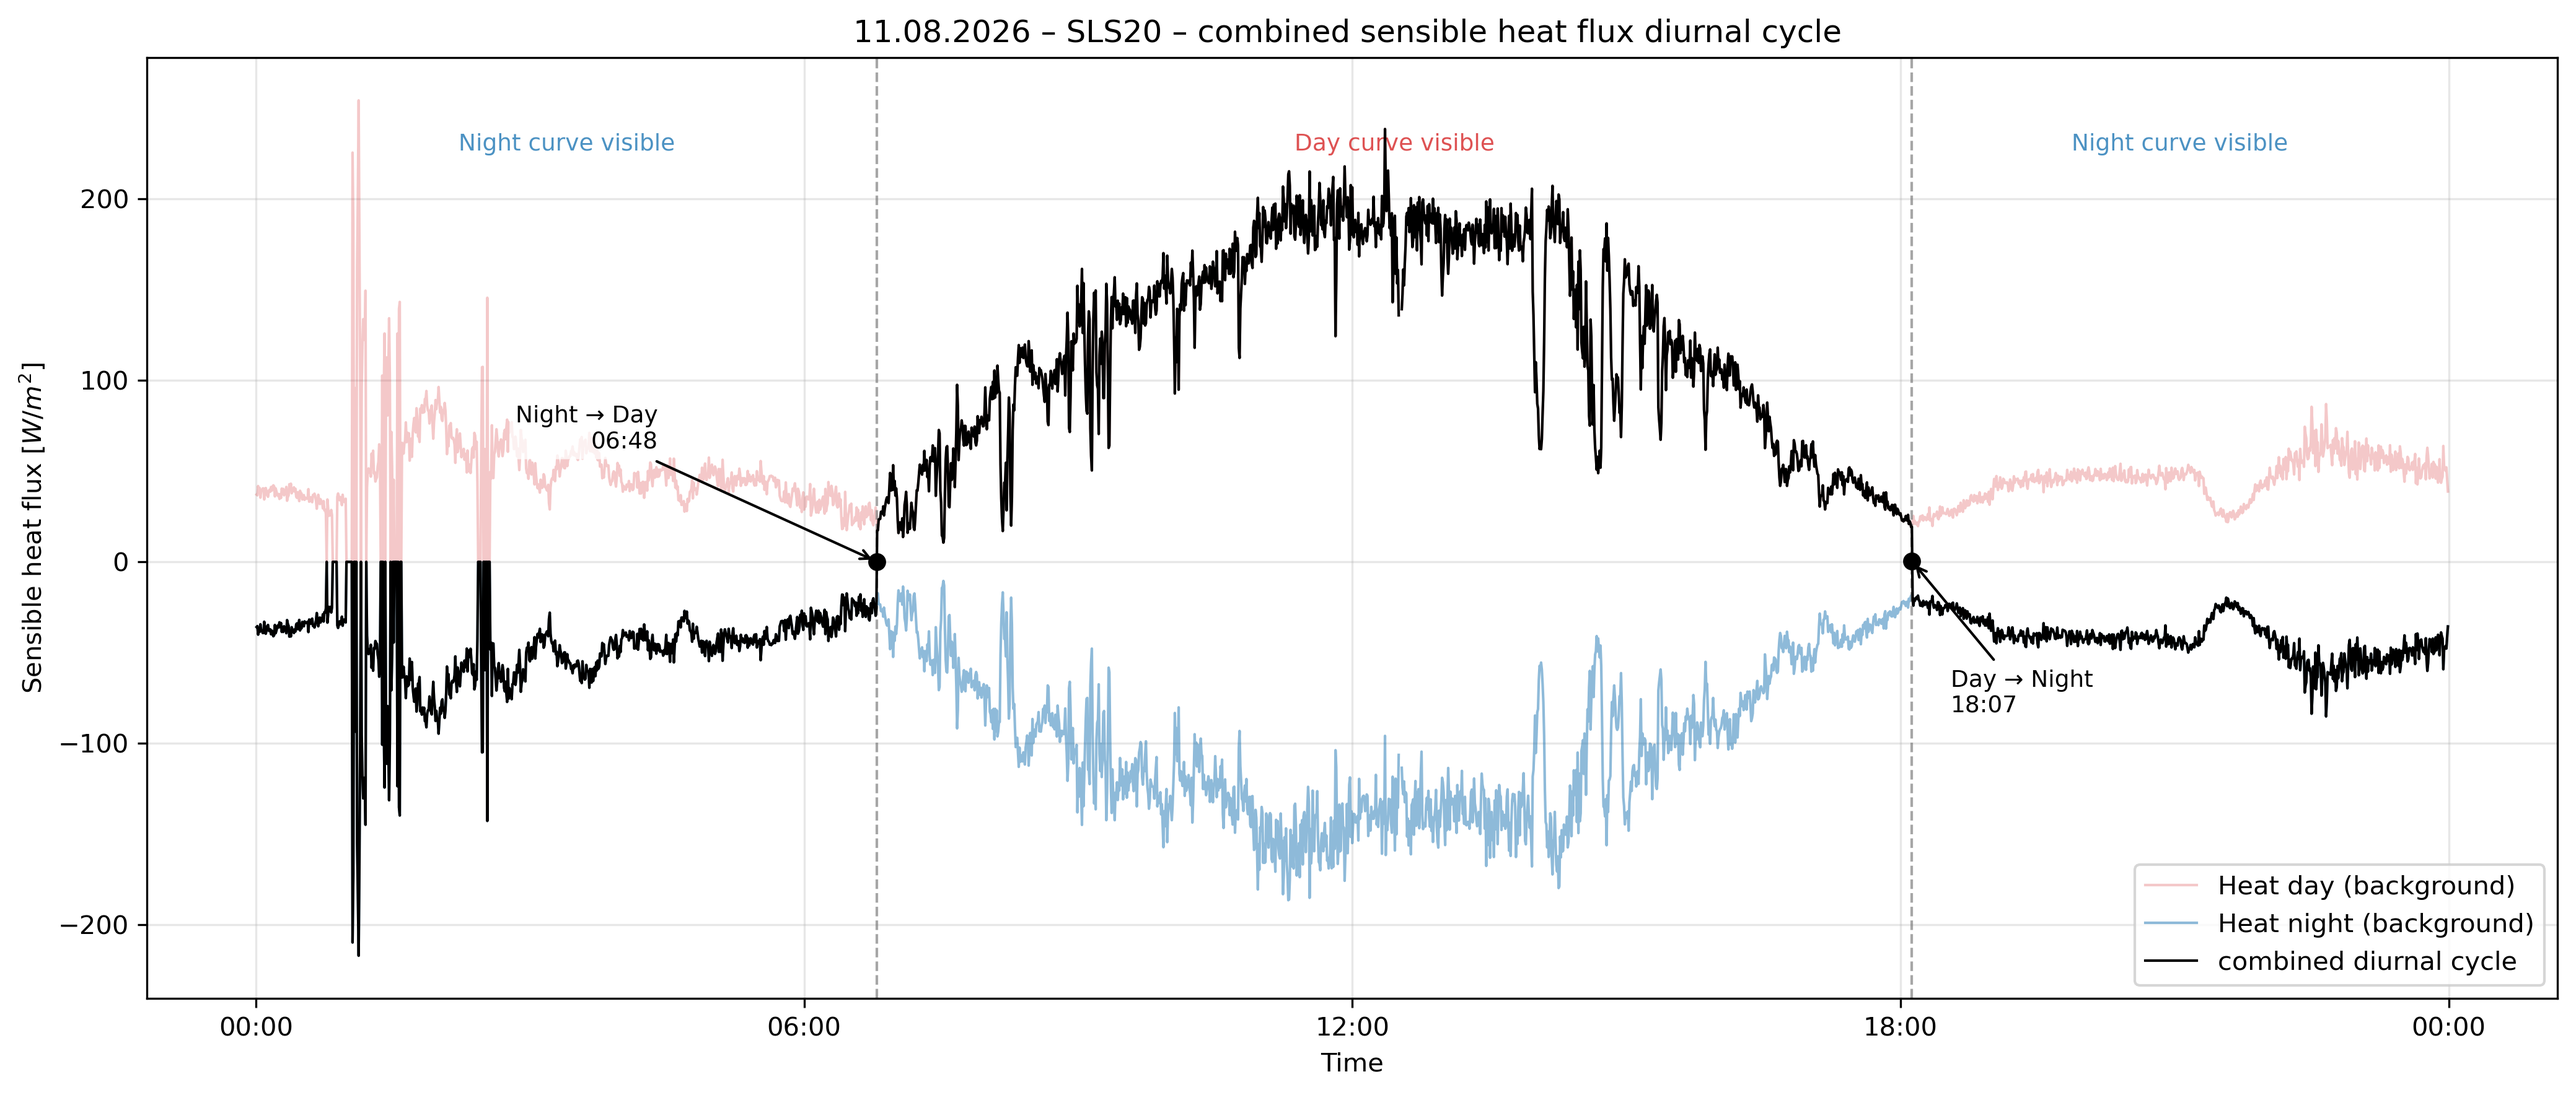
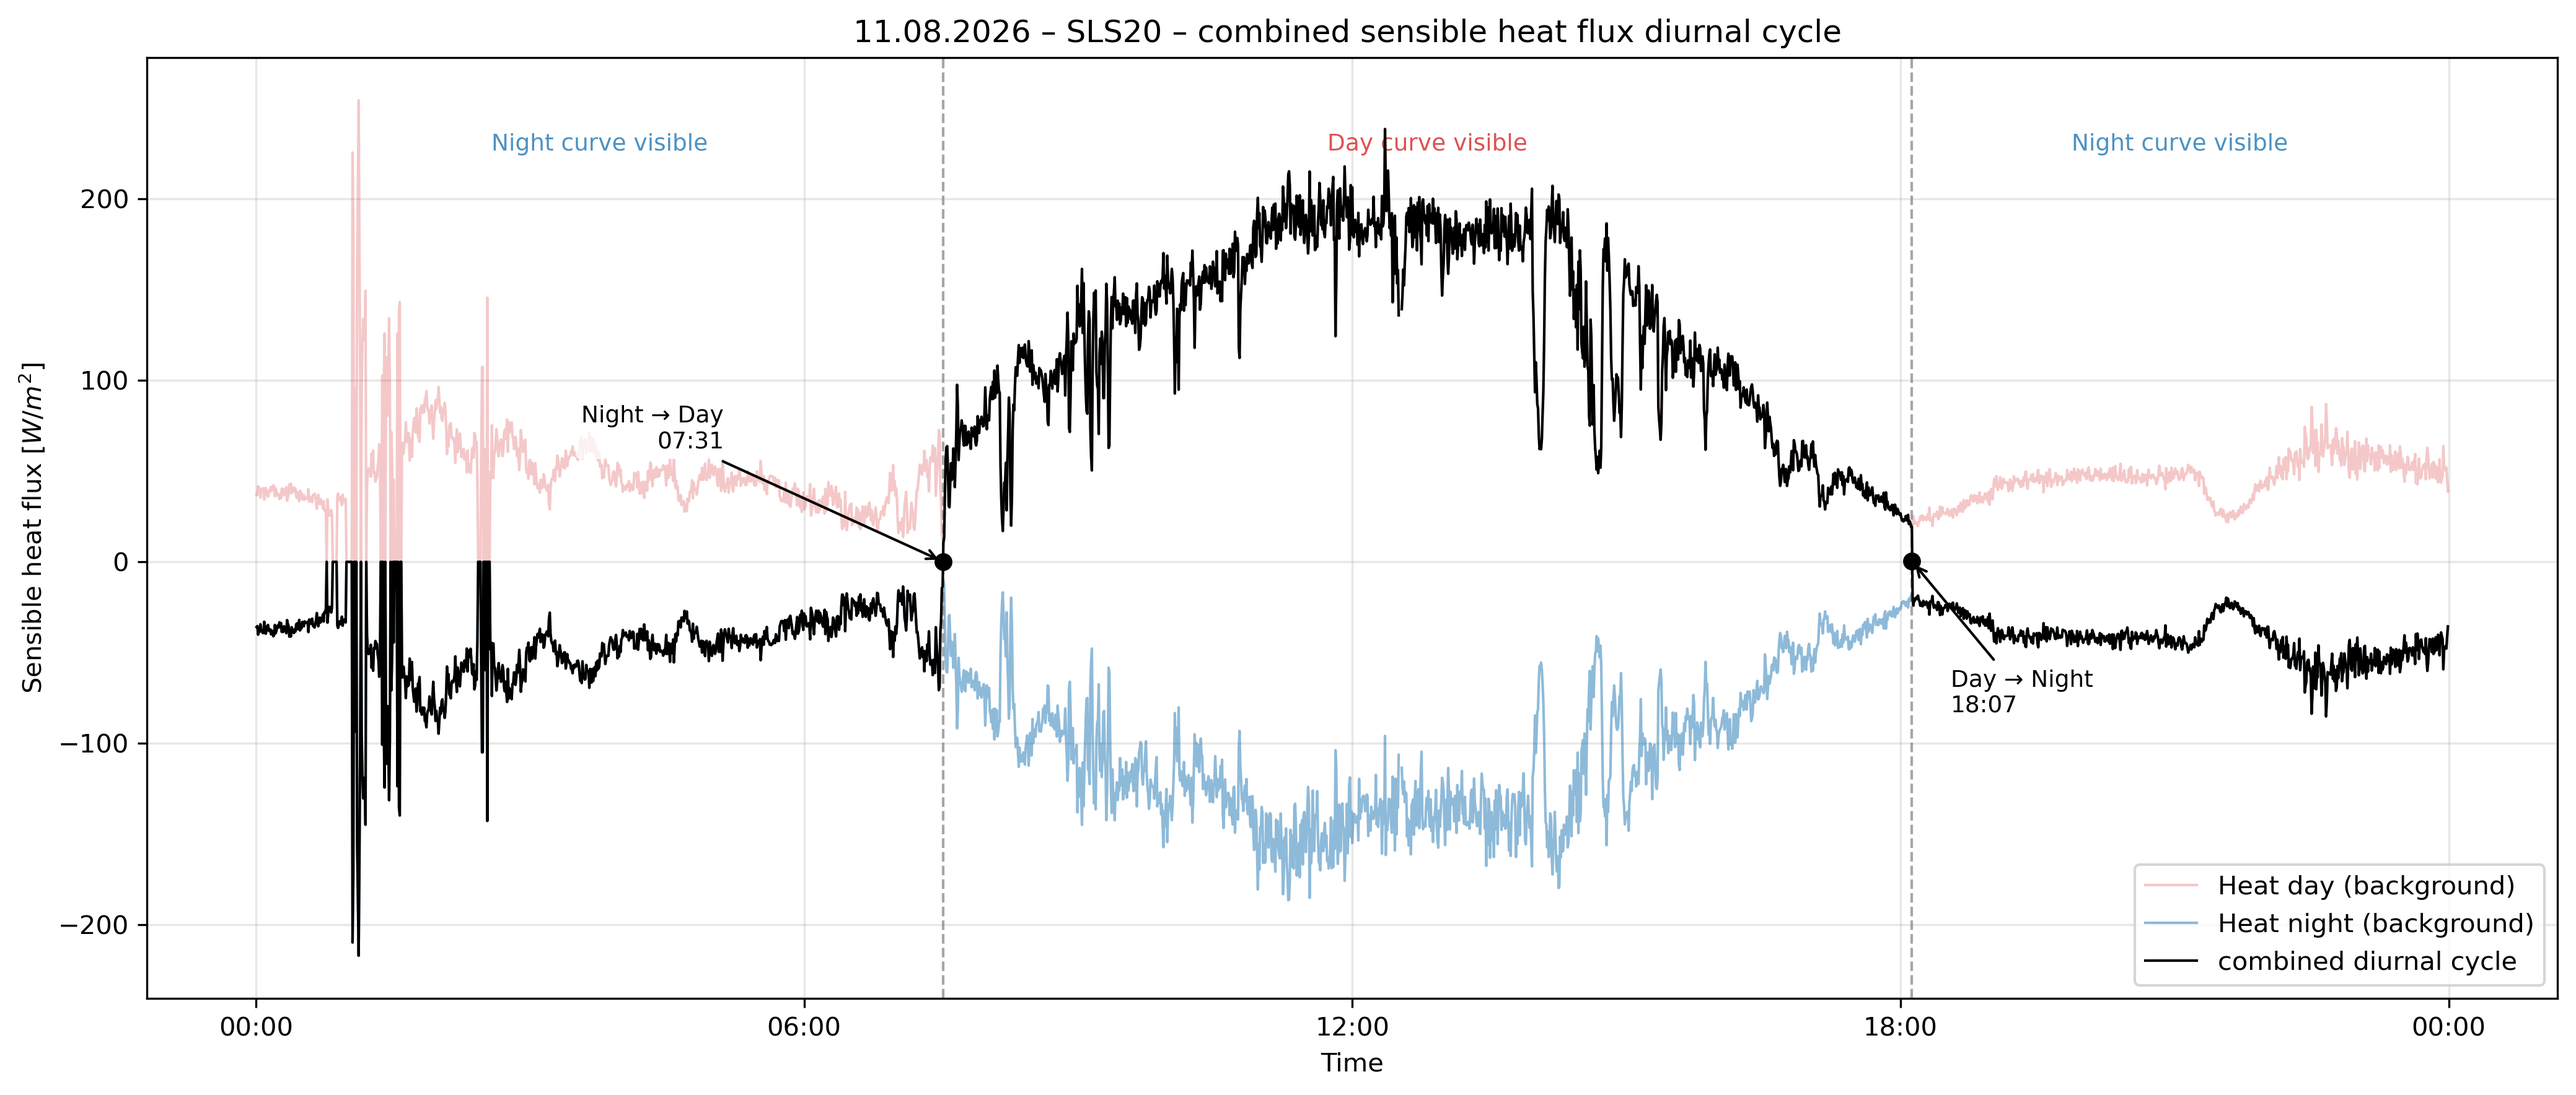
PLots from the new improved algorythm

diff --git a/scintillometer/data_processing/analysis_sls.py b/scintillometer/data_processing/analysis_sls.py
@@ -32,10 +32,7 @@ EVENING_SEARCH_START = 18
 EVENING_SEARCH_END = 19
 
 
-# ============================================================================
 # OPTIONAL HARDCODED TRANSITIONS
-# ============================================================================
-
 # If the automatic detection gives a bad result for a specific day,
 # you can define the transition times manually here.
 #
@@ -863,6 +860,278 @@ def plot_combined_daily_cycle(
         )
 
 
+def plot_combined_all_days(
+    res: pd.DataFrame,
+) -> None:
+    """
+    Create one combined plot containing all days.
+
+    For every day:
+        - Heat_day is shown in the background
+        - Heat_night is shown in the background
+        - the combined day/night curve is shown in black
+        - the automatically detected transition times are marked
+
+    Each day is processed independently so that every day
+    gets its own morning and evening transition.
+    """
+
+    PLOT_FOLDER.mkdir(
+        parents=True,
+        exist_ok=True,
+    )
+
+    # CHECK REQUIRED COLUMNS
+    required_columns = {
+        "timestamp",
+        "Heat_day",
+        "Heat_night",
+    }
+
+    missing = required_columns - set(res.columns)
+
+    if missing:
+        raise ValueError(
+            f"Missing RES columns: {sorted(missing)}"
+        )
+
+    # PREPARE DATA
+    res = res.copy()
+
+    res["timestamp"] = pd.to_datetime(
+        res["timestamp"]
+    )
+
+    res = res.sort_values(
+        "timestamp"
+    )
+
+    res["date"] = res[
+        "timestamp"
+    ].dt.date
+
+    # FIGURE
+    fig, ax = plt.subplots(
+        figsize=(14, 6)
+    )
+
+    # PROCESS EACH DAY
+    for date, day_data in res.groupby(
+        "date"
+    ):
+
+        day_data = day_data.copy()
+
+        # FIND TRANSITIONS FOR THIS DAY
+        morning_transition, evening_transition = (
+            get_transition_times(
+                day_data,
+                date,
+            )
+        )
+
+        # Skip day if transition could not be determined
+        if (
+            morning_transition is None
+            or evening_transition is None
+        ):
+            print(
+                f"WARNING: Could not determine transitions for "
+                f"{pd.Timestamp(date).strftime('%d.%m.%Y')}"
+            )
+            continue
+
+        # CREATE COMBINED CURVE
+        day_data["Heat_combined"] = (
+            create_combined_heat_flux(
+                day_data,
+                morning_transition,
+                evening_transition,
+            )
+        )
+
+        # BACKGROUND CURVES
+        ax.plot(
+            day_data["timestamp"],
+            day_data["Heat_day"],
+            color="tab:red",
+            linewidth=0.8,
+            alpha=0.20,
+        )
+
+        ax.plot(
+            day_data["timestamp"],
+            day_data["Heat_night"],
+            color="tab:blue",
+            linewidth=0.8,
+            alpha=0.35,
+        )
+
+        # COMBINED CURVE
+        ax.plot(
+            day_data["timestamp"],
+            day_data["Heat_combined"],
+            color="black",
+            linewidth=1.0,
+            zorder=5,
+        )
+
+        # TRANSITION LINES
+        ax.axvline(
+            morning_transition,
+            color="gray",
+            linestyle="--",
+            linewidth=0.8,
+            alpha=0.6,
+        )
+
+        ax.axvline(
+            evening_transition,
+            color="gray",
+            linestyle="--",
+            linewidth=0.8,
+            alpha=0.6,
+        )
+
+        # TRANSITION POINT VALUES
+        morning_row = day_data.iloc[
+            (
+                day_data["timestamp"]
+                - morning_transition
+            ).abs().argsort()[:1]
+        ]
+
+        evening_row = day_data.iloc[
+            (
+                day_data["timestamp"]
+                - evening_transition
+            ).abs().argsort()[:1]
+        ]
+
+        morning_value_day = morning_row[
+            "Heat_day"
+        ].iloc[0]
+
+        morning_value_night = morning_row[
+            "Heat_night"
+        ].iloc[0]
+
+        morning_value = (
+            morning_value_day
+            + morning_value_night
+        ) / 2
+
+        evening_value_day = evening_row[
+            "Heat_day"
+        ].iloc[0]
+
+        evening_value_night = evening_row[
+            "Heat_night"
+        ].iloc[0]
+
+        evening_value = (
+            evening_value_day
+            + evening_value_night
+        ) / 2
+
+        ax.scatter(
+            morning_transition,
+            morning_value,
+            color="black",
+            s=25,
+            zorder=10,
+        )
+
+        ax.scatter(
+            evening_transition,
+            evening_value,
+            color="black",
+            s=25,
+            zorder=10,
+        )
+
+    # LABELS
+    ax.set_title(
+        "SLS20 – combined sensible heat flux diurnal cycles"
+    )
+
+    ax.set_ylabel(
+        "Sensible heat flux [$W/m^2$]"
+    )
+
+    ax.grid(
+        True,
+        alpha=0.3,
+    )
+
+    format_time_axis(
+        ax
+    )
+
+    # DATE LABELS
+    dates = sorted(
+        res["timestamp"].dt.date.unique()
+    )
+
+    add_day_labels(
+        ax,
+        dates,
+    )
+
+    # LEGEND
+    ax.plot(
+        [],
+        [],
+        label="Heat day (background)",
+        color="tab:red",
+        linewidth=1.0,
+        alpha=0.25,
+    )
+
+    ax.plot(
+        [],
+        [],
+        label="Heat night (background)",
+        color="tab:blue",
+        linewidth=1.0,
+        alpha=0.5,
+    )
+
+    ax.plot(
+        [],
+        [],
+        label="combined diurnal cycle",
+        color="black",
+        linewidth=1.0,
+    )
+
+    ax.legend()
+
+    fig.subplots_adjust(
+        bottom=0.20
+    )
+
+    fig.tight_layout()
+
+    # SAVE
+    output = (
+        PLOT_FOLDER
+        / "SLS20_sensible_heat_flux_combined_all_days.png"
+    )
+
+    fig.savefig(
+        output,
+        dpi=300,
+        bbox_inches="tight",
+    )
+
+    plt.close(fig)
+
+    print(
+        f"Saved combined all-days plot: {output}"
+    )
+
+
 # EXISTING PLOT
 def plot_heat_flux(res: pd.DataFrame) -> None:
 
@@ -1104,6 +1373,11 @@ def main():
     )
 
     plot_combined_daily_cycle(
+        res
+    )
+
+    # One plot containing all days
+    plot_combined_all_days(
         res
     )
 
